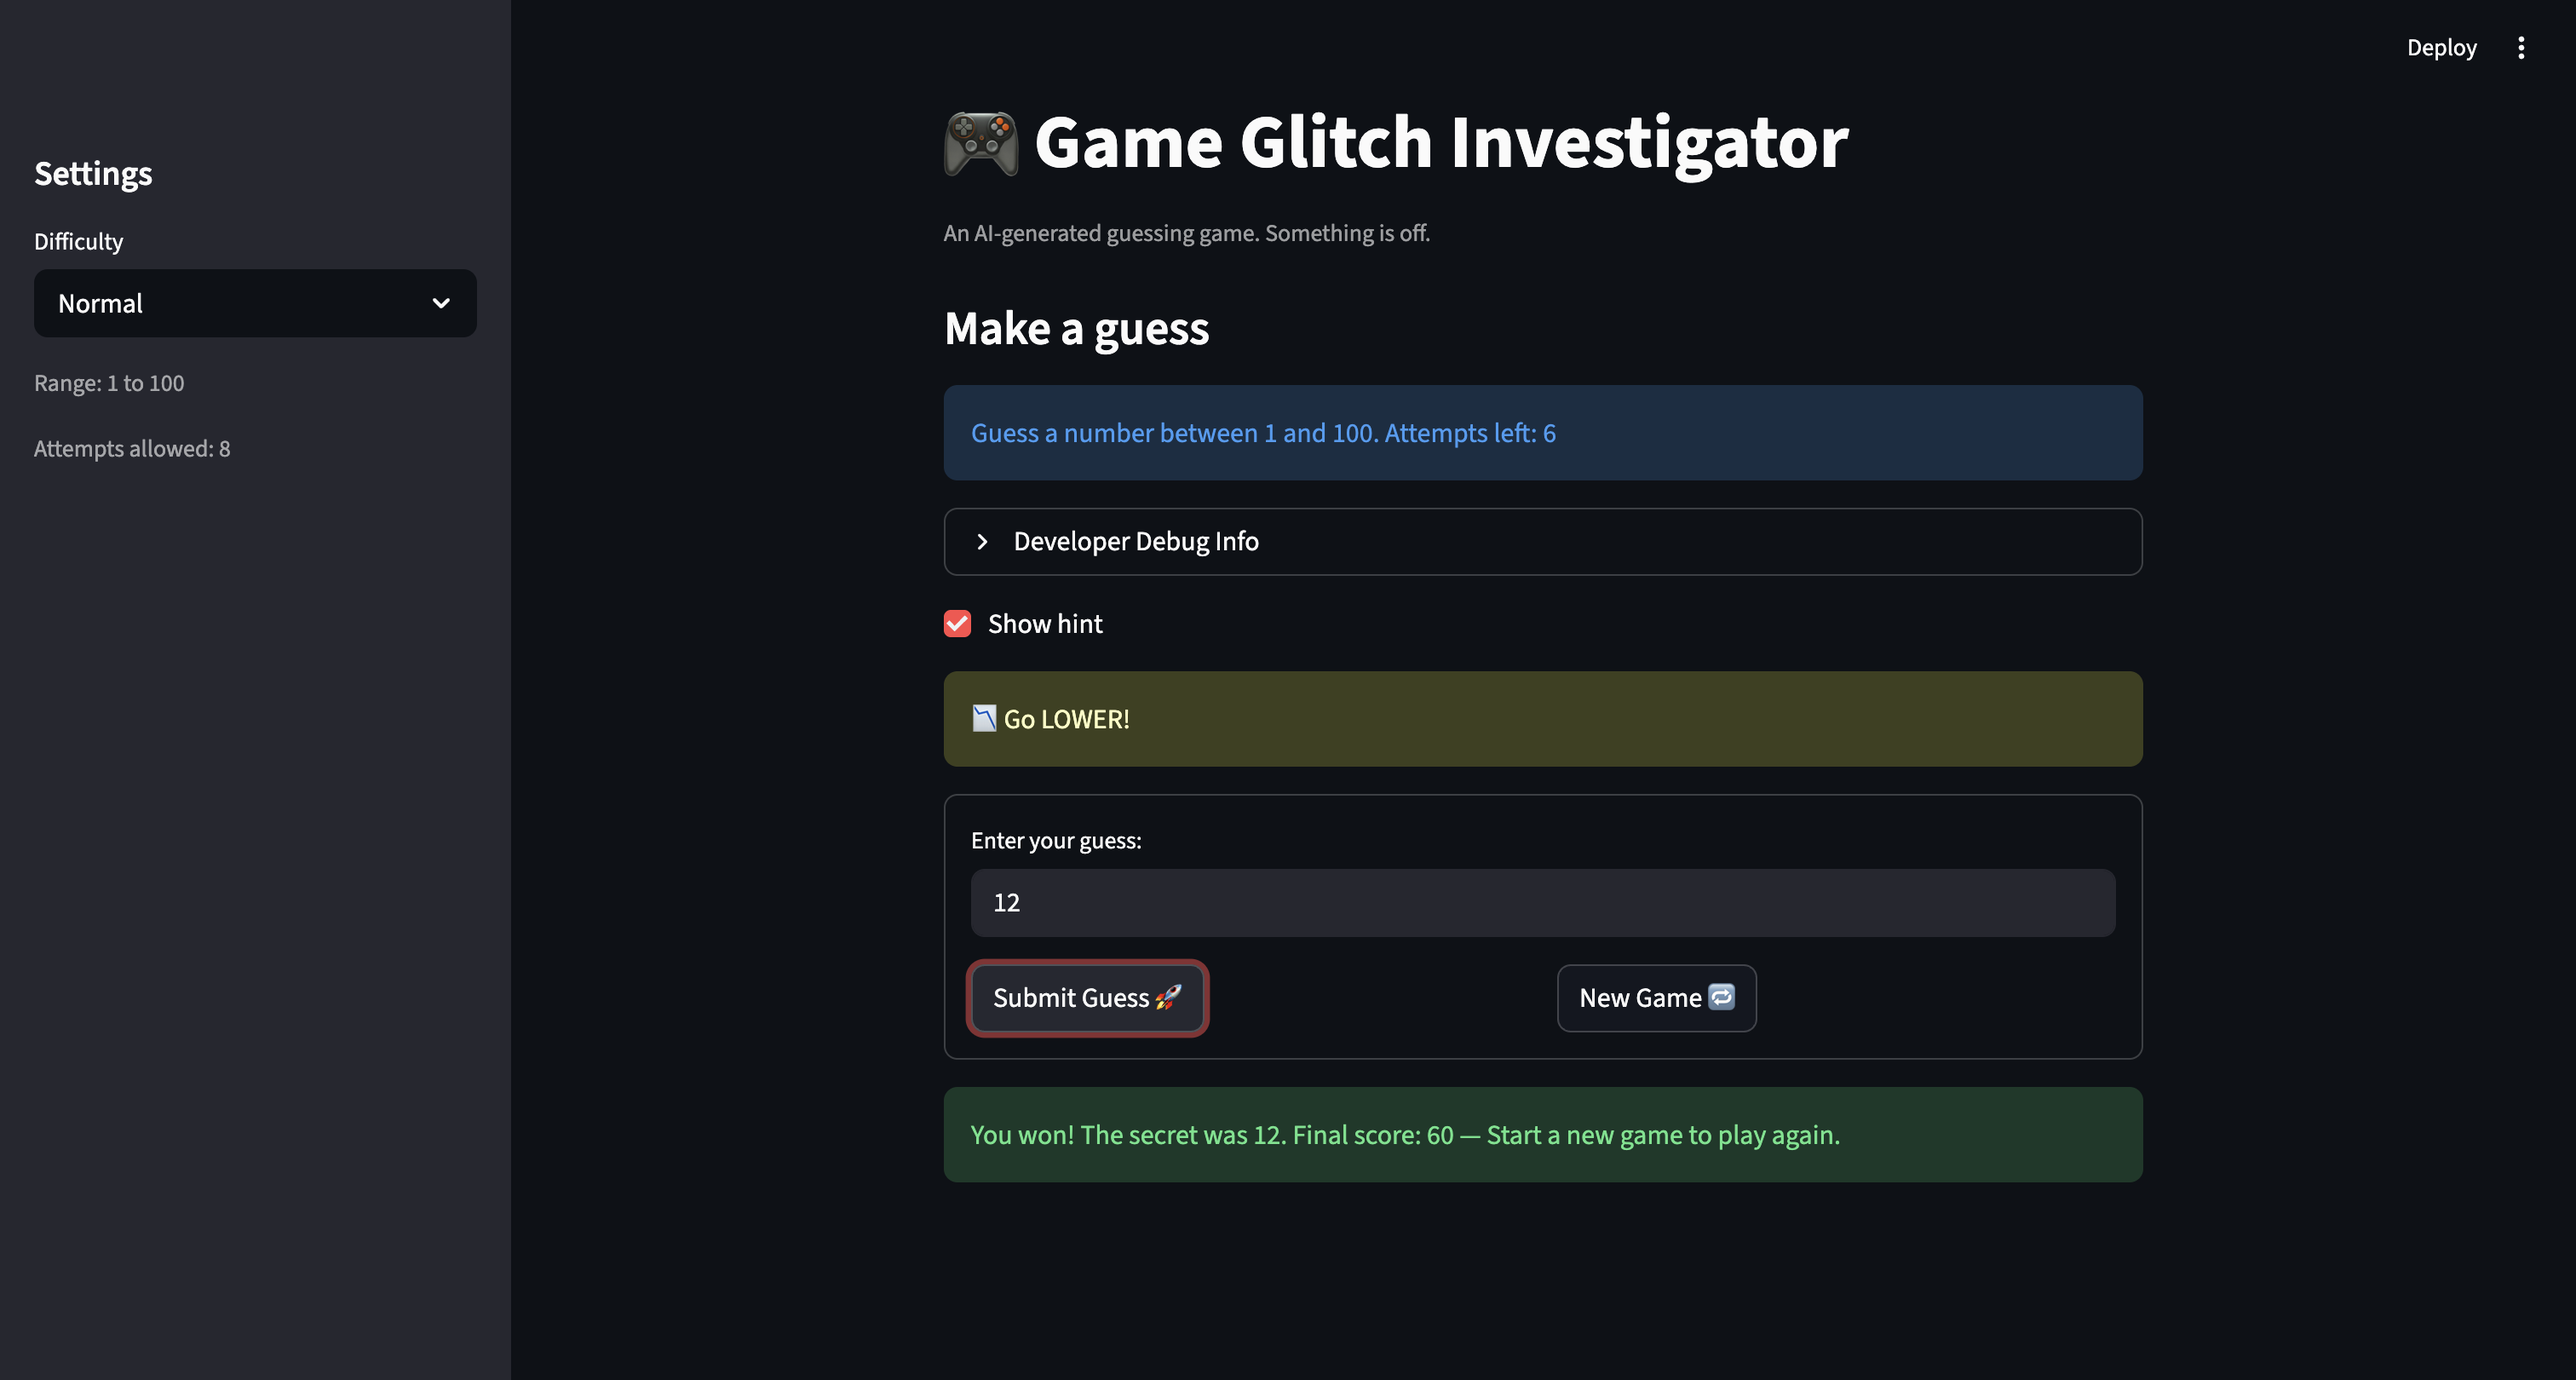
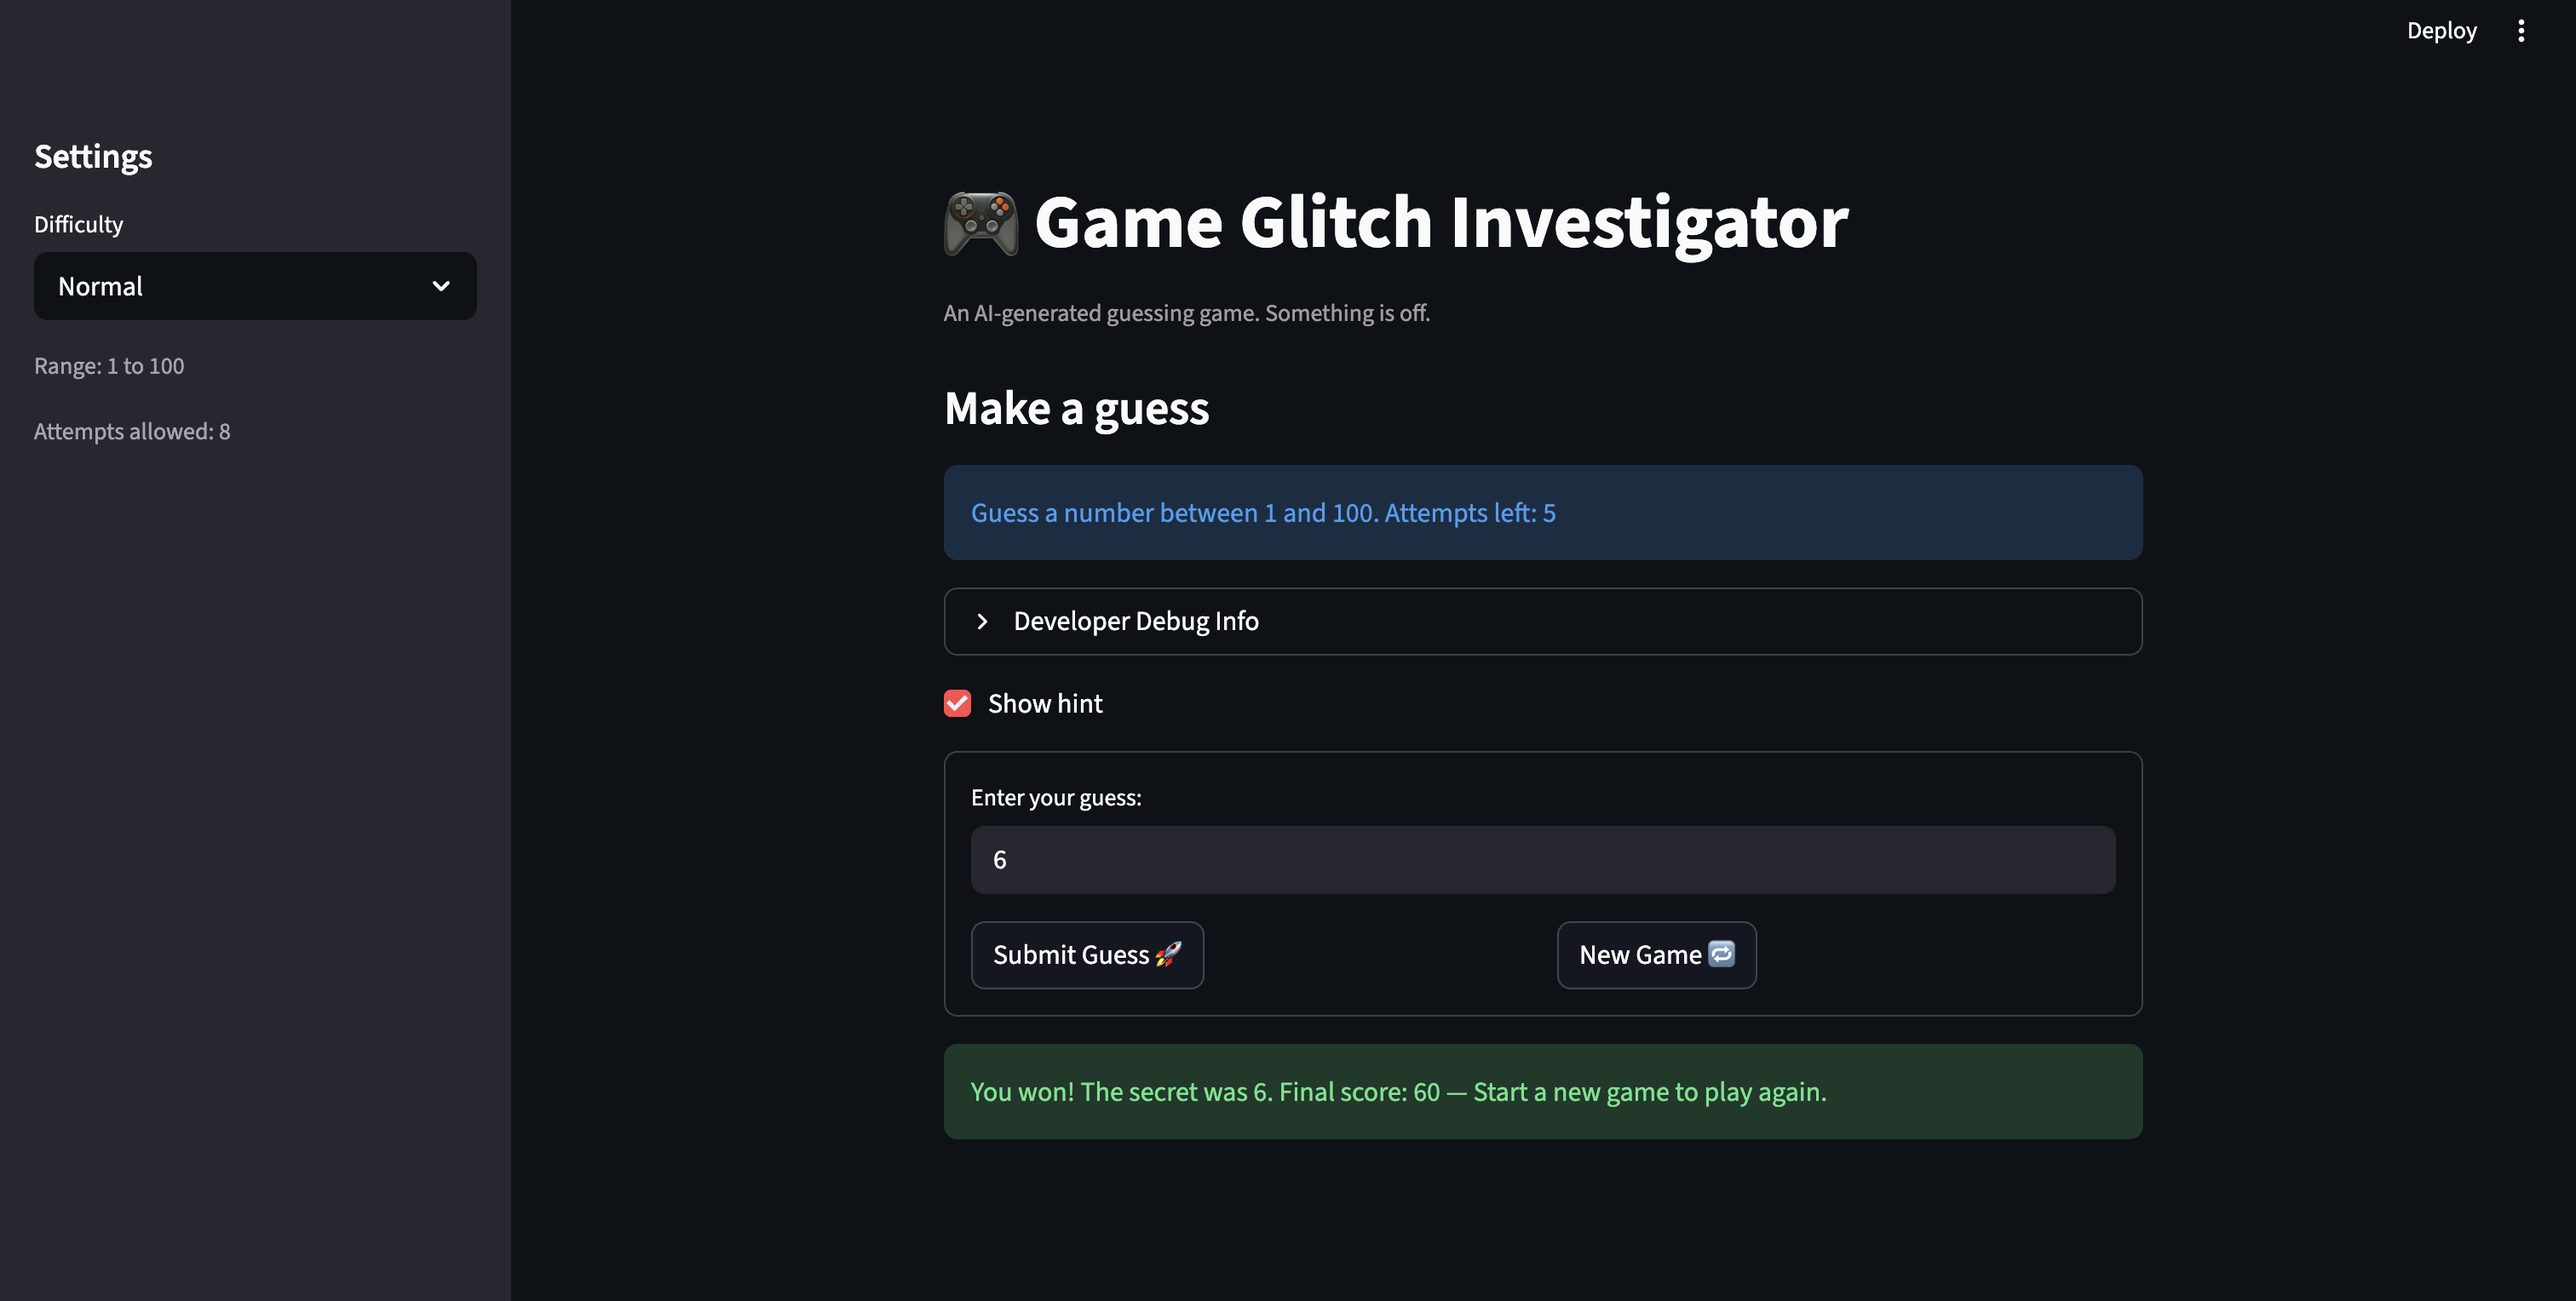
updated small UI issue

diff --git a/app.py b/app.py
@@ -79,7 +79,7 @@ show_hint = st.checkbox("Show hint", value=True, key="show_hint")
 
 # FIXME: st.rerun() cleared the hint before it could display. Fixed by storing
 # the hint in session state so it persists across the rerun.
-if show_hint and st.session_state.last_hint:
+if show_hint and st.session_state.last_hint and st.session_state.status == "playing":
     st.warning(st.session_state.last_hint)
 
 with st.form("guess_form"):
@@ -149,21 +149,14 @@ if submit:
         # FIXME: st.rerun() after a win/loss wiped the render before the status
         # block could fire, requiring a second button press.
         if outcome == "Win":
-            st.balloons()
             st.session_state.status = "won"
-            st.success(
-                f"You won! The secret was {st.session_state.secret}. "
-                f"Final score: {st.session_state.score} — Start a new game to play again."
-            )
-            st.stop()
+            st.session_state.last_hint = None
+            st.rerun()
         else:
             if st.session_state.attempts >= attempt_limit:
                 st.session_state.status = "lost"
-                st.error(
-                    f"Out of attempts! The secret was {st.session_state.secret}. "
-                    f"Score: {st.session_state.score} — Start a new game to try again."
-                )
-                st.stop()
+                st.session_state.last_hint = None
+                st.rerun()
             else:
                 # FIXME: History, score, and attempts left all showed stale values
                 # because display elements render before submit processing. A rerun
